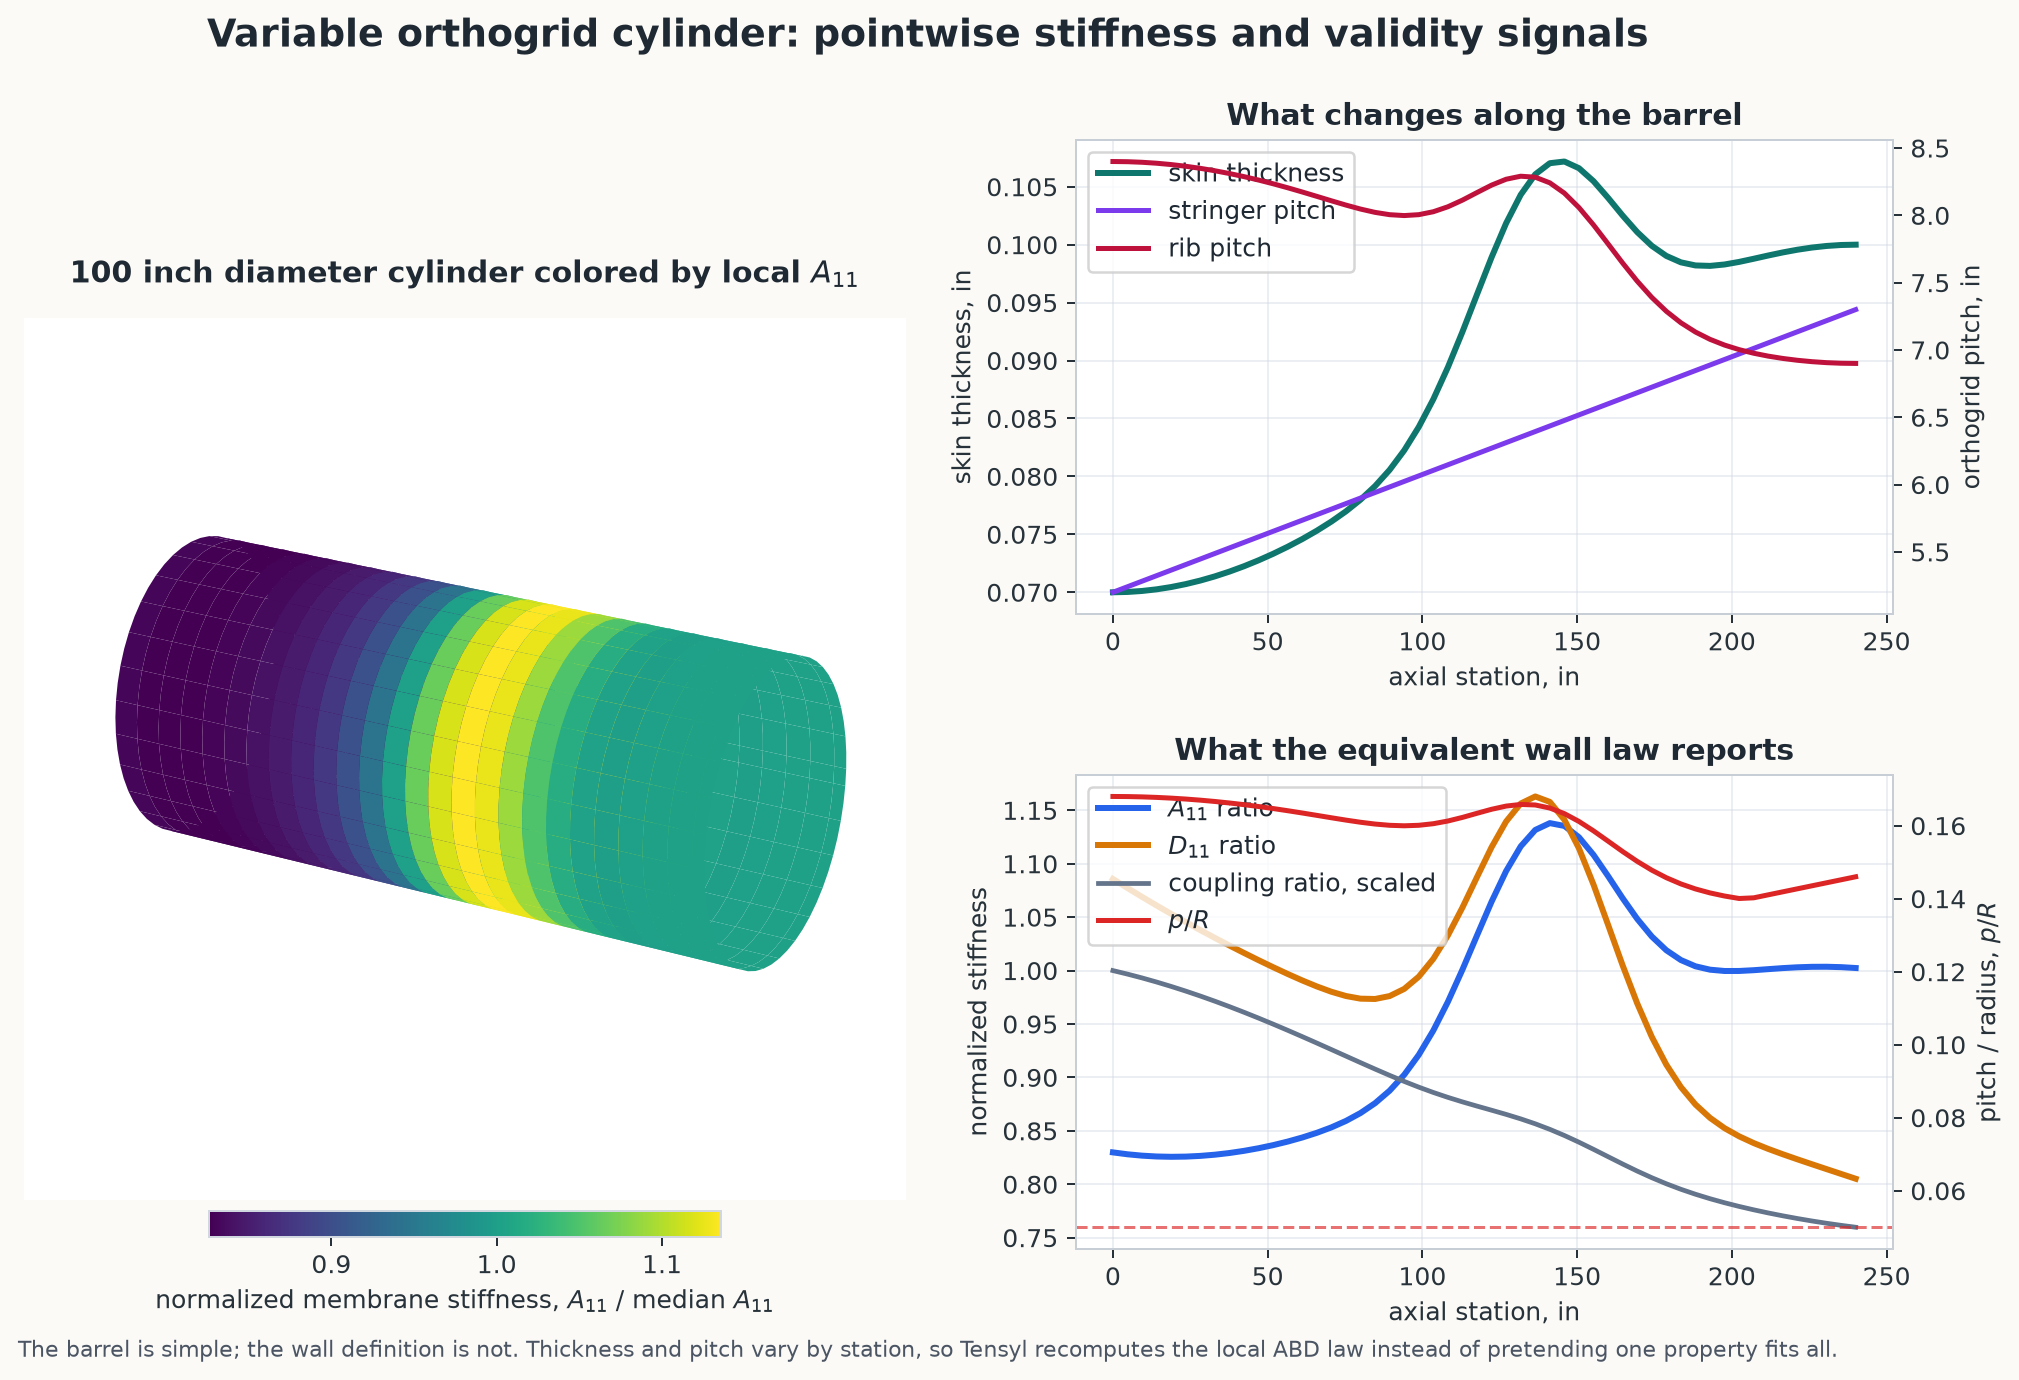
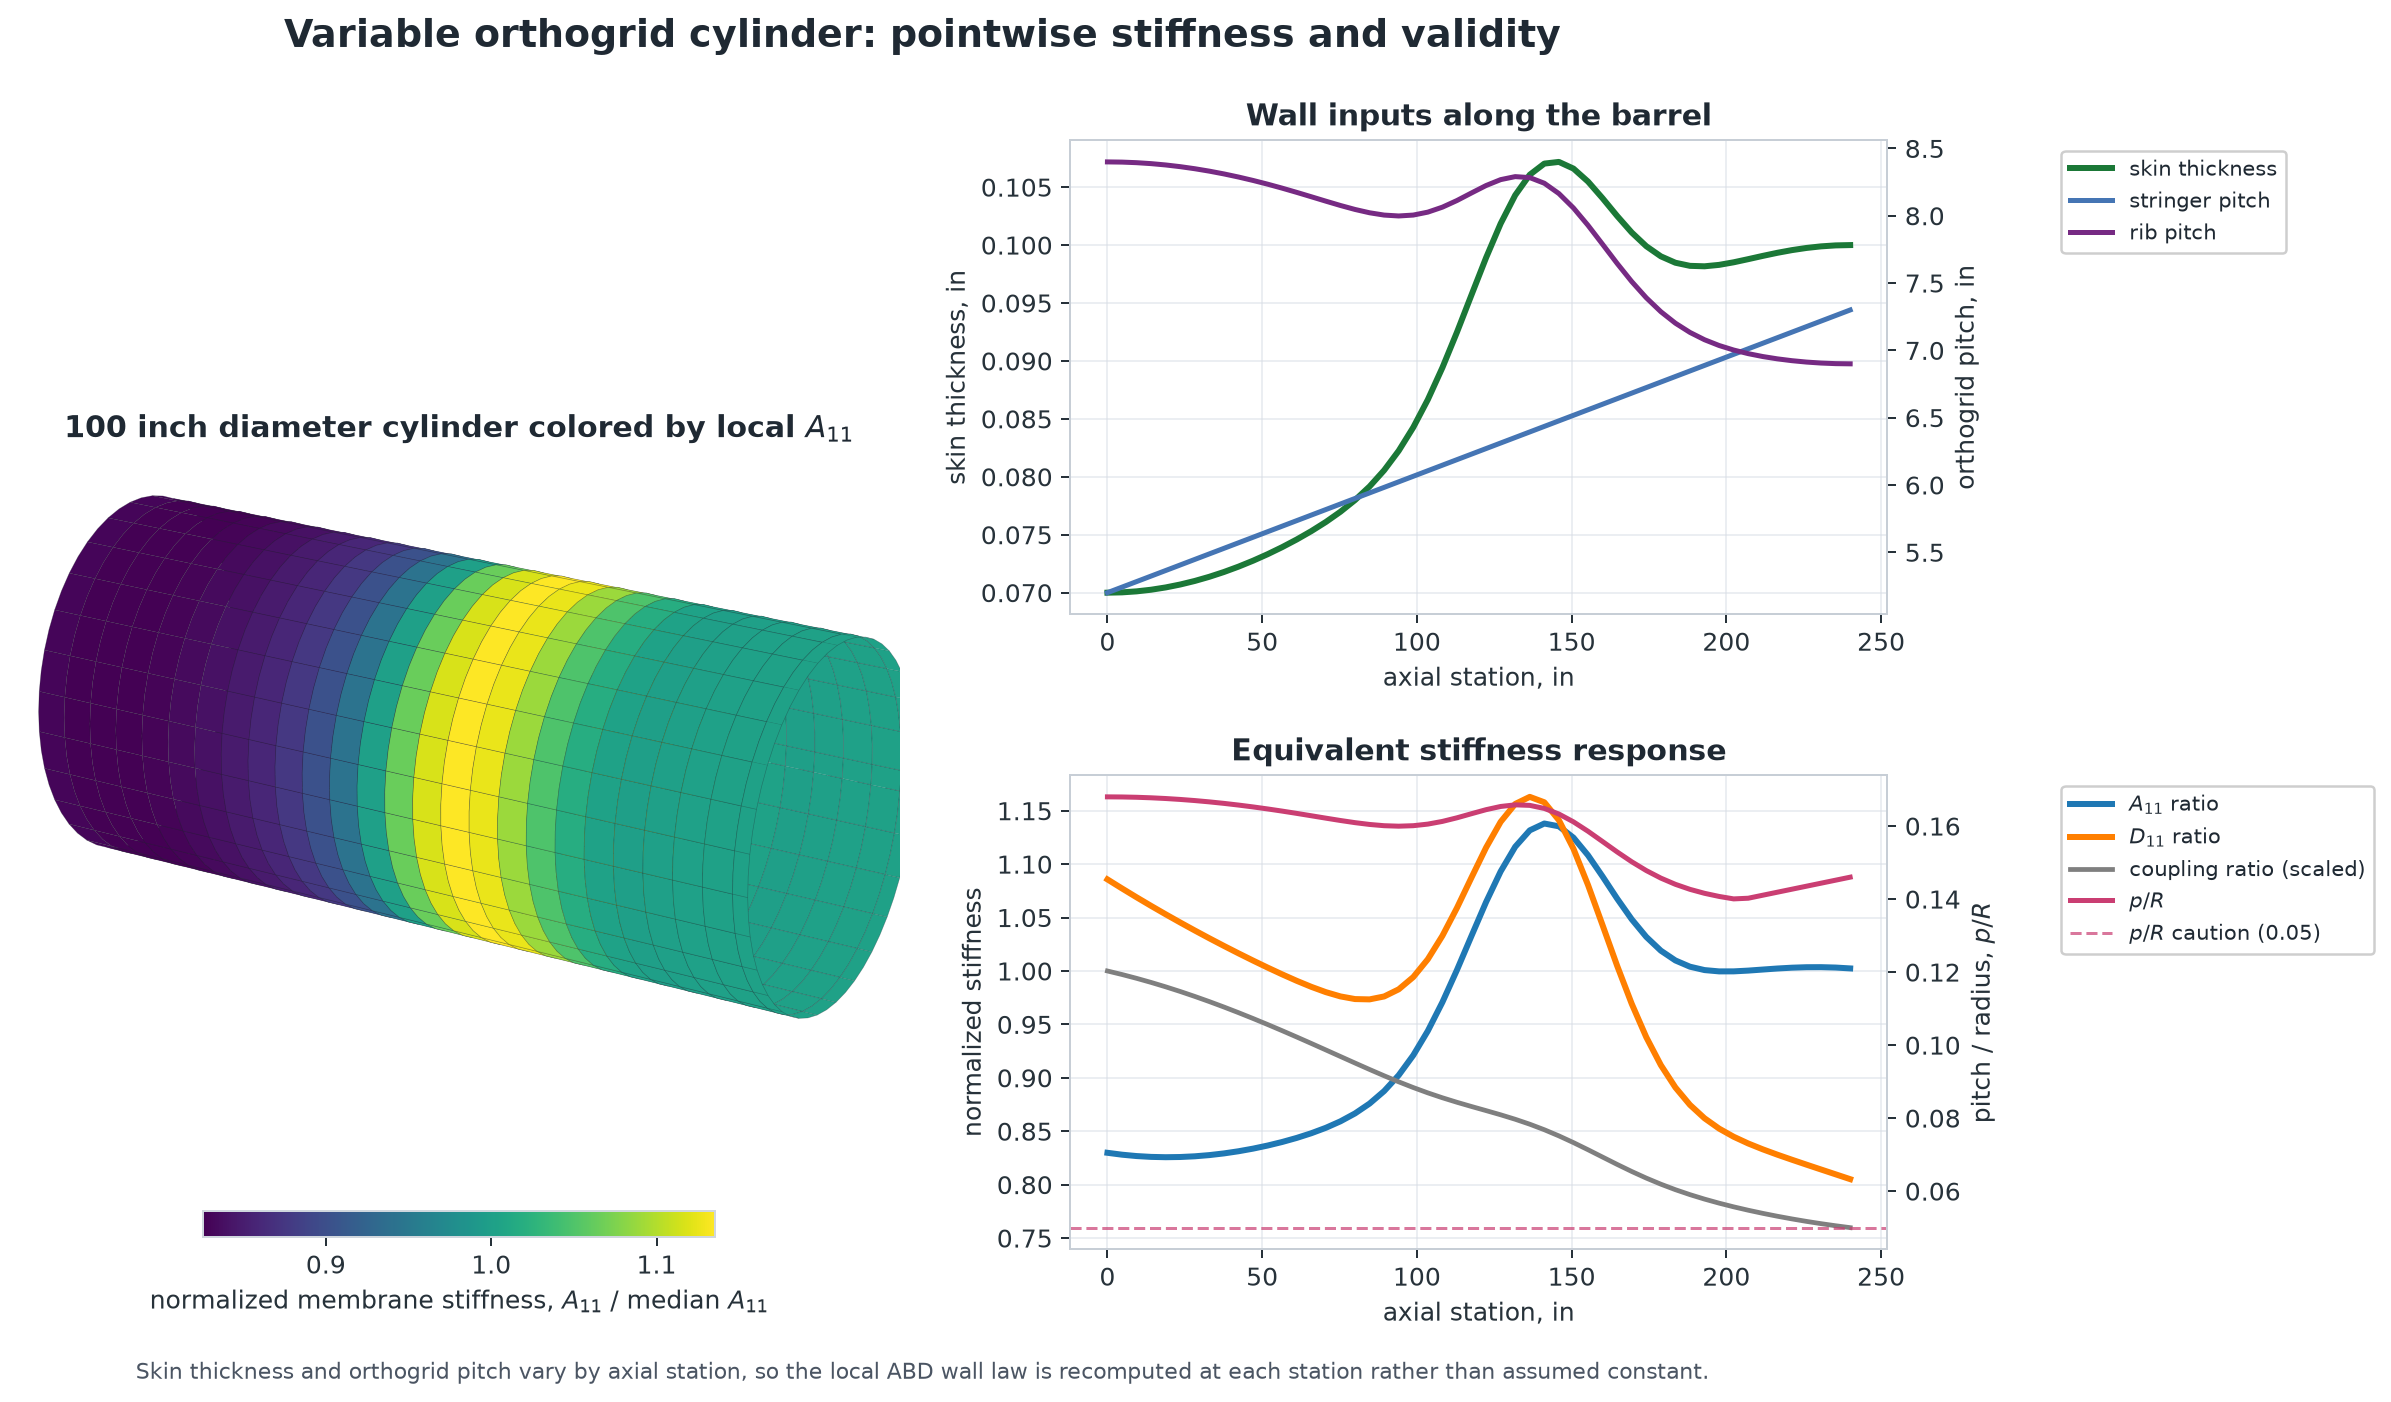
docs: fix examples

diff --git a/docs/examples/scripts/stiffness_field_maps.py b/docs/examples/scripts/stiffness_field_maps.py
@@ -40,6 +40,29 @@ ASSET_DIR = Path(__file__).parents[2] / "assets" / "examples"
 CYLINDER_OUTPUT_PATH = ASSET_DIR / "cylinder-stiffness-map.png"
 ELLIPSOID_OUTPUT_PATH = ASSET_DIR / "ellipsoid-stiffness-map.png"
 
+# Shared figure palette so the two documentation images read as one consistent set.
+FIGURE_FACECOLOR = "white"
+STIFFNESS_CMAP = cm.viridis  # membrane/bending stiffness (A11, D11) in both figures
+VALIDITY_CMAP = cm.magma  # validity signal (p/R) in both figures
+CAPTION_COLOR = "#4b5563"
+
+# Faint mesh boundaries on the 3D surfaces so their curvature reads as 3D.
+SURFACE_EDGE_COLOR = (0.12, 0.14, 0.18, 0.35)
+SURFACE_EDGE_WIDTH = 0.25
+
+# Line colors tied to meaning. Red is reserved for the validity (p/R) signal so the
+# "validity = warm" association from the magma maps carries over to the line plots.
+VALIDITY_COLOR = colors.to_hex(VALIDITY_CMAP(0.55))
+LINE_COLORS = {
+    "skin_thickness": "#1b7837",  # green
+    "stringer_pitch": "#4575b4",  # blue
+    "rib_pitch": "#762a83",  # purple
+    "A11": "#1f78b4",  # blue
+    "D11": "#ff7f00",  # orange
+    "coupling": "#7f7f7f",  # gray
+    "validity": VALIDITY_COLOR,  # warm, matches the magma validity maps
+}
+
 
 def _set_plot_style() -> None:
     plt.rcParams.update(
@@ -55,6 +78,21 @@ def _set_plot_style() -> None:
             "grid.linewidth": 0.7,
         }
     )
+
+
+def _style_3d_axes(ax: Any) -> None:
+    """Blend a 3D surface into a white figure: transparent patch and panes."""
+
+    ax.patch.set_facecolor("none")
+    transparent = (1.0, 1.0, 1.0, 0.0)
+    for axis in (ax.xaxis, ax.yaxis, ax.zaxis):
+        axis.set_pane_color(transparent)
+
+
+def _style_colorbar(colorbar: Any) -> None:
+    """Apply the shared colorbar outline style."""
+
+    colorbar.outline.set_edgecolor("#d0d7de")
 
 
 def scaled_section(section: BeamSection, scale: float, *, label: str) -> BeamSection:
@@ -231,7 +269,7 @@ def render_cylinder_map(
     output_path.parent.mkdir(parents=True, exist_ok=True)
     _set_plot_style()
 
-    fig = plt.figure(figsize=(13.4, 8.0), dpi=180, facecolor="#fbfaf7")
+    fig = plt.figure(figsize=(13.4, 8.0), dpi=180, facecolor=FIGURE_FACECOLOR)
     grid = fig.add_gridspec(
         2,
         2,
@@ -249,21 +287,25 @@ def render_cylinder_map(
         vmin=float(np.percentile(ratio, 3)),
         vmax=float(np.percentile(ratio, 97)),
     )
-    ax_surface.plot_surface(
+    surface_artist = ax_surface.plot_surface(
         data["x"],
         data["y"],
         data["z"],
-        facecolors=cm.viridis(norm(ratio)),
-        linewidth=0.0,
+        facecolors=STIFFNESS_CMAP(norm(ratio)),
         antialiased=True,
         shade=False,
     )
+    surface_artist.set_edgecolor(SURFACE_EDGE_COLOR)
+    surface_artist.set_linewidth(SURFACE_EDGE_WIDTH)
     ax_surface.view_init(elev=21.0, azim=-58.0)
-    ax_surface.set_box_aspect((240.0, 100.0, 100.0))
+    ax_surface.set_box_aspect((240.0, 100.0, 100.0), zoom=1.2)
     ax_surface.set_axis_off()
-    ax_surface.set_title("100 inch diameter cylinder colored by local $A_{11}$", pad=14)
+    _style_3d_axes(ax_surface)
+    ax_surface.set_title(
+        "100 inch diameter cylinder colored by local $A_{11}$", y=0.94, pad=0
+    )
     colorbar = fig.colorbar(
-        cm.ScalarMappable(norm=norm, cmap=cm.viridis),
+        cm.ScalarMappable(norm=norm, cmap=STIFFNESS_CMAP),
         ax=ax_surface,
         orientation="horizontal",
         fraction=0.034,
@@ -271,7 +313,7 @@ def render_cylinder_map(
         shrink=0.58,
     )
     colorbar.set_label(r"normalized membrane stiffness, $A_{11}$ / median $A_{11}$")
-    colorbar.outline.set_edgecolor("#d0d7de")
+    _style_colorbar(colorbar)
 
     station = data["station"][:, 0]
     thickness = data["skin_thickness"][:, 0]
@@ -282,56 +324,109 @@ def render_cylinder_map(
     coupling = data["coupling_B"][:, 0]
     p_over_r = data["p_over_R"][:, 0]
 
-    ax_inputs.plot(station, thickness, color="#0f766e", linewidth=2.4, label="skin thickness")
+    ax_inputs.plot(
+        station,
+        thickness,
+        color=LINE_COLORS["skin_thickness"],
+        linewidth=2.4,
+        label="skin thickness",
+    )
     ax_pitch = ax_inputs.twinx()
-    ax_pitch.plot(station, stringer_pitch, color="#7c3aed", linewidth=2.0, label="stringer pitch")
-    ax_pitch.plot(station, rib_pitch, color="#be123c", linewidth=2.0, label="rib pitch")
-    ax_inputs.set_title("What changes along the barrel")
+    ax_pitch.plot(
+        station,
+        stringer_pitch,
+        color=LINE_COLORS["stringer_pitch"],
+        linewidth=2.0,
+        label="stringer pitch",
+    )
+    ax_pitch.plot(
+        station,
+        rib_pitch,
+        color=LINE_COLORS["rib_pitch"],
+        linewidth=2.0,
+        label="rib pitch",
+    )
+    ax_inputs.set_title("Wall inputs along the barrel")
     ax_inputs.set_xlabel("axial station, in")
     ax_inputs.set_ylabel("skin thickness, in")
     ax_pitch.set_ylabel("orthogrid pitch, in")
     ax_inputs.grid(True, alpha=0.55)
     input_lines = ax_inputs.get_lines() + ax_pitch.get_lines()
-    ax_inputs.legend(input_lines, [line.get_label() for line in input_lines], loc="upper left")
+    ax_inputs.legend(
+        input_lines,
+        [line.get_label() for line in input_lines],
+        loc="upper left",
+        bbox_to_anchor=(1.2, 1.0),
+        fontsize=8.5,
+        framealpha=0.95,
+    )
 
-    ax_response.plot(station, a11_ratio, color="#2563eb", linewidth=2.4, label="$A_{11}$ ratio")
-    ax_response.plot(station, d11_ratio, color="#d97706", linewidth=2.4, label="$D_{11}$ ratio")
+    ax_response.plot(
+        station,
+        a11_ratio,
+        color=LINE_COLORS["A11"],
+        linewidth=2.4,
+        label="$A_{11}$ ratio",
+    )
+    ax_response.plot(
+        station,
+        d11_ratio,
+        color=LINE_COLORS["D11"],
+        linewidth=2.4,
+        label="$D_{11}$ ratio",
+    )
     ax_response.plot(
         station,
         coupling / np.nanmax(coupling),
-        color="#64748b",
+        color=LINE_COLORS["coupling"],
         linewidth=1.9,
-        label="coupling ratio, scaled",
+        label="coupling ratio (scaled)",
     )
     ax_validity = ax_response.twinx()
-    ax_validity.plot(station, p_over_r, color="#dc2626", linewidth=2.0, label="$p/R$")
-    ax_validity.axhline(0.05, color="#dc2626", linestyle="--", linewidth=1.2, alpha=0.65)
-    ax_response.set_title("What the equivalent wall law reports")
+    ax_validity.plot(
+        station,
+        p_over_r,
+        color=LINE_COLORS["validity"],
+        linewidth=2.0,
+        label="$p/R$",
+    )
+    ax_validity.axhline(
+        0.05,
+        color=LINE_COLORS["validity"],
+        linestyle="--",
+        linewidth=1.2,
+        alpha=0.7,
+        label="$p/R$ caution (0.05)",
+    )
+    ax_response.set_title("Equivalent stiffness response")
     ax_response.set_xlabel("axial station, in")
     ax_response.set_ylabel("normalized stiffness")
     ax_validity.set_ylabel(r"pitch / radius, $p/R$")
     ax_response.grid(True, alpha=0.55)
-    response_lines = ax_response.get_lines() + ax_validity.get_lines()[:1]
+    response_lines = ax_response.get_lines() + ax_validity.get_lines()
     ax_response.legend(
         response_lines,
         [line.get_label() for line in response_lines],
         loc="upper left",
+        bbox_to_anchor=(1.2, 1.0),
+        fontsize=8.5,
+        framealpha=0.95,
     )
 
     fig.suptitle(
-        "Variable orthogrid cylinder: pointwise stiffness and validity signals",
+        "Variable orthogrid cylinder: pointwise stiffness and validity",
         fontsize=15,
         fontweight="bold",
         y=0.965,
     )
     fig.text(
         0.50,
-        0.035,
-        "The barrel is simple; the wall definition is not. Thickness and pitch vary by station, "
-        "so Tensyl recomputes the local ABD law instead of pretending one property fits all.",
+        0.02,
+        "Skin thickness and orthogrid pitch vary by axial station, so the local ABD wall "
+        "law is recomputed at each station rather than assumed constant.",
         ha="center",
         fontsize=8.7,
-        color="#4b5563",
+        color=CAPTION_COLOR,
     )
     fig.savefig(output_path, bbox_inches="tight", facecolor=fig.get_facecolor())
     plt.close(fig)
@@ -514,8 +609,8 @@ def render_ellipsoid_map(
     output_path.parent.mkdir(parents=True, exist_ok=True)
     _set_plot_style()
 
-    fig = plt.figure(figsize=(12.8, 7.2), dpi=180, facecolor="#fbfaf7")
-    grid = fig.add_gridspec(1, 2, width_ratios=(1.28, 1.0), wspace=0.12)
+    fig = plt.figure(figsize=(12.8, 7.2), dpi=180, facecolor=FIGURE_FACECOLOR)
+    grid = fig.add_gridspec(1, 2, width_ratios=(1.28, 1.0), wspace=0.22)
 
     ax_surface = fig.add_subplot(grid[0, 0], projection="3d")
     ax_map = fig.add_subplot(grid[0, 1])
@@ -525,30 +620,34 @@ def render_ellipsoid_map(
         vmin=float(np.percentile(ratio, 4)),
         vmax=float(np.percentile(ratio, 96)),
     )
-    ax_surface.plot_surface(
+    surface_artist = ax_surface.plot_surface(
         data["x"],
         data["y"],
         data["z"],
-        facecolors=cm.cividis(norm(ratio)),
+        facecolors=STIFFNESS_CMAP(norm(ratio)),
         rstride=1,
         cstride=1,
-        linewidth=0.0,
         antialiased=True,
         shade=False,
     )
+    surface_artist.set_edgecolor(SURFACE_EDGE_COLOR)
+    surface_artist.set_linewidth(SURFACE_EDGE_WIDTH)
     ax_surface.view_init(elev=23.0, azim=-38.0)
-    ax_surface.set_box_aspect((180.0, 125.0, 75.0))
+    ax_surface.set_box_aspect((180.0, 125.0, 75.0), zoom=1.4)
     ax_surface.set_axis_off()
-    ax_surface.set_title("Local membrane stiffness over a triaxial shell", pad=16)
+    _style_3d_axes(ax_surface)
+    ax_surface.set_title("Local membrane stiffness over a triaxial shell", y=0.86, pad=0)
 
     colorbar = fig.colorbar(
-        cm.ScalarMappable(norm=norm, cmap=cm.cividis),
+        cm.ScalarMappable(norm=norm, cmap=STIFFNESS_CMAP),
         ax=ax_surface,
+        orientation="horizontal",
         fraction=0.035,
-        pad=0.02,
+        pad=0.01,
+        shrink=0.7,
     )
-    colorbar.ax.set_title(r"$A_{11}$" + "\nratio", fontsize=8.5, pad=8)
-    colorbar.outline.set_edgecolor("#d0d7de")
+    colorbar.set_label(r"normalized membrane stiffness, $A_{11}$ / median $A_{11}$")
+    _style_colorbar(colorbar)
 
     theta_deg = np.degrees(data["theta"])
     phi_deg = np.degrees(data["phi"])
@@ -583,22 +682,22 @@ def render_ellipsoid_map(
     ax_map.set_facecolor("#22212b")
     p_colorbar = fig.colorbar(mesh, ax=ax_map, fraction=0.046, pad=0.03)
     p_colorbar.set_label(r"pitch / local radius, $p/R_\mathrm{min}$")
-    p_colorbar.outline.set_edgecolor("#d0d7de")
+    _style_colorbar(p_colorbar)
 
     fig.suptitle(
-        "Tensyl showpiece: a pointwise stiffened-wall law on a curved ellipsoid",
+        "Pointwise equivalent stiffness on a triaxial ellipsoid",
         fontsize=15,
         fontweight="bold",
         y=0.975,
     )
     fig.text(
         0.50,
-        0.035,
+        0.02,
         "Each sampled point rebuilds the local cell with its own frame, pitch, section scale, "
         "eccentricity, and curvature-based validity context.",
         ha="center",
         fontsize=8.5,
-        color="#4b5563",
+        color=CAPTION_COLOR,
     )
     fig.savefig(output_path, bbox_inches="tight", facecolor=fig.get_facecolor())
     plt.close(fig)

diff --git a/docs/examples/stiffness-field-maps.md b/docs/examples/stiffness-field-maps.md
@@ -1,10 +1,11 @@
 # Stiffness Field Maps
 
-These examples show why Tensyl treats equivalent stiffness as a local wall law
-that can be evaluated over a surface, not as one heroic closed-form answer. The
-first case is practical: a cylindrical barrel with skin thickness and orthogrid
-spacing that vary along the axis. The second case is less polite: a triaxial
-ellipsoid with pointwise pitch, orientation, and section changes.
+These examples show why Tensyl treats equivalent stiffness as a local
+constitutive model that can be evaluated over a surface, not as one heroic
+closed-form answer. The first case is practical: a cylindrical barrel with skin
+thickness and orthogrid spacing that vary along the axis. The second case is
+less polite: a triaxial ellipsoid with pointwise pitch, orientation, and section
+changes.
 
 The mechanics loop is the same in both:
 
@@ -49,10 +50,10 @@ The most useful quantities to plot here are:
   earn scrutiny.
 
 The key point is not that the cylinder is exotic. It is not. The useful bit is
-that the wall law changes by station while the cylinder supplies the local frame
-and curvature scale. Tensyl recomputes the local equivalent stiffness wherever
-the design changes, then lets you plot the consequences instead of guessing
-where the property table got interesting.
+that the local equivalent stiffness changes by station while the cylinder
+supplies the local frame and curvature scale. Tensyl recomputes that stiffness
+wherever the design changes, then lets you plot the consequences instead of
+guessing where the property table got interesting.
 
 ## Ellipsoid Showpiece
 
@@ -79,8 +80,8 @@ At each ellipsoid sample point:
 - `ValidityContext` records `p_over_R`, `h_over_R`, and response-length checks.
 
 That is the useful trick. The curved surface does not magically bend the ABD
-matrix. The pointwise cell factory changes the wall law, while the surface tells
-Tensyl how to read that law locally.
+matrix. The pointwise cell factory changes the local equivalent stiffness, while
+the surface tells Tensyl how to read that stiffness locally.
 
 ## Rebuild the Figures
 
@@ -150,9 +151,10 @@ sections, pointwise design rules, Matplotlib styling, and image export.
 
 Closed-form equivalent-plate formulas are valuable, but they usually want a
 friendly geometry, repeated layout, and fixed assumptions. The cylinder begins
-with a friendly geometry but changes the wall by station. The ellipsoid changes
-the surface frame, curvature, pitch, angle, and section scale. In both cases,
-Tensyl still computes a consistent local wall law at each point.
+with a friendly geometry but changes the stiffness definition by station. The
+ellipsoid changes the surface frame, curvature, pitch, angle, and section scale.
+In both cases, Tensyl still computes a consistent local equivalent stiffness at
+each point.
 
 That does not make the result automatically valid. It does make the assumptions
 visible enough to argue with, which is a more useful starting point than a